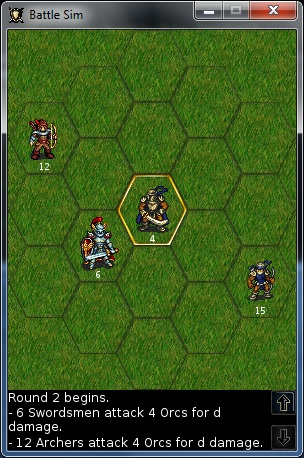
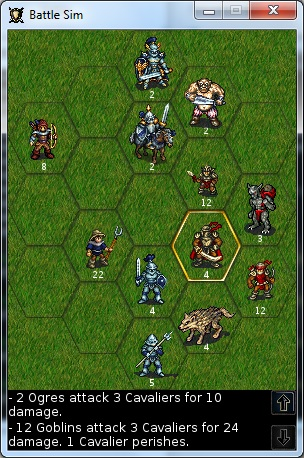
Updated screenshot and demo video.

diff --git a/README.md b/README.md
@@ -14,7 +14,7 @@ This game was inspired by the turn-based combat of the Heroes of Might and Magic
 
 ![screenshot](https://raw.github.com/mkristofik/battle-sim/master/screenshot.jpg)
 
-There's a [demo video](http://youtu.be/d6f6UnAOV1U) too.
+There's a [demo video](http://youtu.be/d6f6UnAOV1U) too.  And another one, a [full-scale battle](http://youtu.be/JwuI4xIqpAM).
 
 ## Core Principles
 
